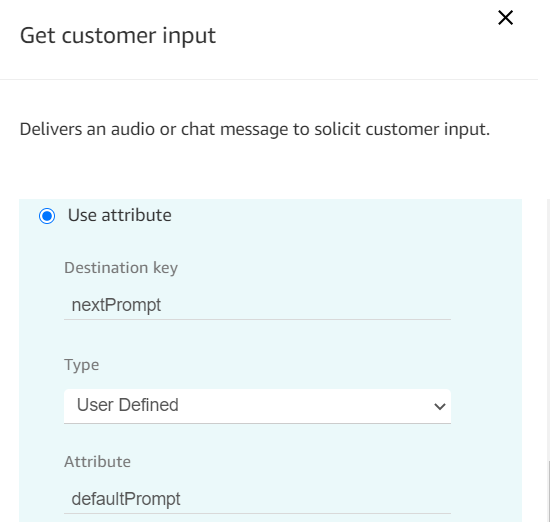
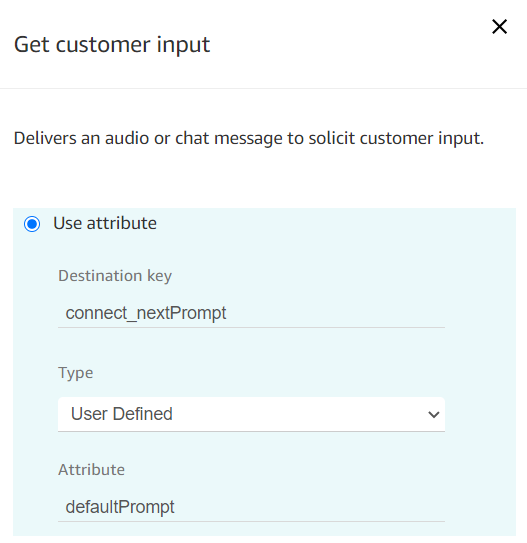
Updated ConnectWizard Contact Flow and MarkDown

diff --git a/workshops/Connect/README.md b/workshops/Connect/README.md
@@ -46,9 +46,9 @@ Within the QnABot invocation, pass in the defaultPrompt to ensure there is a pro
 
 The default prompt defines what gets played out to the user if a next prompt is not explicitly set from within a QnABot response. This can be something like &quot;Ask another question, say return to main menu, or ask to speak to a representative&quot;. In this way, we can guarantee that there is always a prompt played out to the user. This default prompt is always passed into the Get Customer Input block as the next prompt in case it is not set within the question.
 
-The next prompt feature lets you explicitly define a prompt that overwrites the default prompt through the use of QnABot Handlebars and Amazon Lex session attributes. This lets you create guardrails and recommended paths for users to follow as they traverse through the system.
+The next prompt feature lets you explicitly define a prompt that overwrites the default prompt through the use of QnABot Handlebars and Amazon Lex session attributes. This lets you create guardrails and recommended paths for users to follow as they traverse through the system. By default, we assign the next prompt using the connect\_nextPrompt attribute name, however this can be changed using the CONNECT\_NEXT\_PROMPT\_VARNAME option within the Settings menu for your QnABot implementation.
 
-For example, if you have a question like &quot;When is your business open?&quot; the logical response might be &quot;We have two offices with different hours. Which location are you referring to?&quot; Without the nextPrompt construct, the user would get played the default message before being able to respond, breaking the conversational chain. In this instance, the question in QnABot could be formatted in the following way:
+For example, if you have a question like &quot;When is your business open?&quot; the logical response might be &quot;We have two offices with different hours. Which location are you referring to?&quot; Without the connect\_nextPrompt construct, the user would get played the default message before being able to respond, breaking the conversational chain. In this instance, the question in QnABot could be formatted in the following way:
 
 ![](images/3_hours.png)
 
@@ -64,7 +64,7 @@ By overwriting the default prompt with the next prompt attribute, we can guide t
 
 You can configure a feature called [Barge In for Amazon Lex](https://docs.aws.amazon.com/connect/latest/adminguide/get-customer-input.html#get-customer-input-bargein) within Amazon Connect. This allows users to interrupt a prompt with their response, which is useful for longer menus where users want to provide an input before the entire message plays. In the example contact flow, this feature is enabled for you by setting a session attribute in the Get customer input block.
 
-This feature, combined with the &#39;next prompt&#39; construct, allows you to write longer form responses to questions that let users ask their next question without waiting. For example:
+This feature, combined with the new CONNECT\_ENABLE\_VOICE\_RESPONSE\_INTERRUPT setting in QnABot 4.3+, allows you to write longer form responses to questions that let users ask their next question without waiting. By setting this option to true, QnABot automatically passes the text after the first sentence into the connect\_nextPrompt session attribute along with the default or assigned next prompt. This forces the text to be played at the next invocation of the bot where a caller can interrupt the playback as soon as their question is answered or they have another question. This allows content designers to simplify how they write longer responses (while still enabling barge-in) without having to explicitly set the next prompt within the question. For example:
 
 ![](images/5_barge.png)
 
@@ -128,9 +128,15 @@ By passing in the Contact ID from Amazon Connect, you can leverage it in reporti
 
 QnABot records the invocation details and session attributes every time the bot is called inside of an Amazon ElasticSearch cluster that is provisioned for you when you launch the solution. This cluster includes default dashboards to monitor the performance of the bot, including questions that were asked that you didn&#39;t have answers to. By passing in the Contact ID, you can look at specific users that called the bot from Amazon Connect and view the journey they took from one question to another. This type of analysis can be useful if you&#39;re looking to understand the way your end users are interacting with the bot or if you should build additional guardrails or suggestions that would improve the experience.
 
+## Tuning and Error Handling
+
+Like any other AI powered system, it&#39;s important to continuously train and monitor your bot to improve customer experience. QnABot offers [tuning recommendations and monitoring capabilities](https://github.com/aws-samples/aws-ai-qna-bot/blob/master/tuning_accuracy_guide/AWS_QnABot_tuning_recognition_accuracy_guide.md) to ensure your customers are able to find the answers to their questions.
+
+Over a voice interface, sometimes filler words can cause QnABot to transcribe an unintentional input. To accommodate for this, QnABot offers a CONNECT\_IGNORE\_WORDS setting that can be used to strip out unintentional inputs to better understand questions or provide better error handling. The setting accepts a comma delimited list for the words transcribed by filler sounds (for example e,a,uh,uhh,ah,ahh,um,umm). By monitoring the inputs to QnABot, you can build out such an exclude list to improve the performance of the bot while learning more about the questions being asked to your bot.
+
 # Conclusion
 
-Using session attributes and other channel specific constructs, you can improve how users engage with QnABot when using Amazon Connect. While this post is not an exhaustive list of how to improve the experience, using these parameters you can design a better customer experience that lets your users get to the information they need in an intuitive, interactive manner.
+Using session attributes, QnABot settings, and other channel specific constructs, you can improve how users engage with QnABot when using Amazon Connect. While this post is not an exhaustive list of how to improve the experience, using these parameters you can design a better customer experience that lets your users get to the information they need in an intuitive, interactive manner.
 
 Combining Amazon Connect with QnABot allows your customer service representatives to spend time with your customers on more complex tasks while also providing users with a better experience through self-service. Customer satisfaction increases all while costs decrease since you&#39;re consuming fewer connected minutes and maximizing agent utilization.
 
